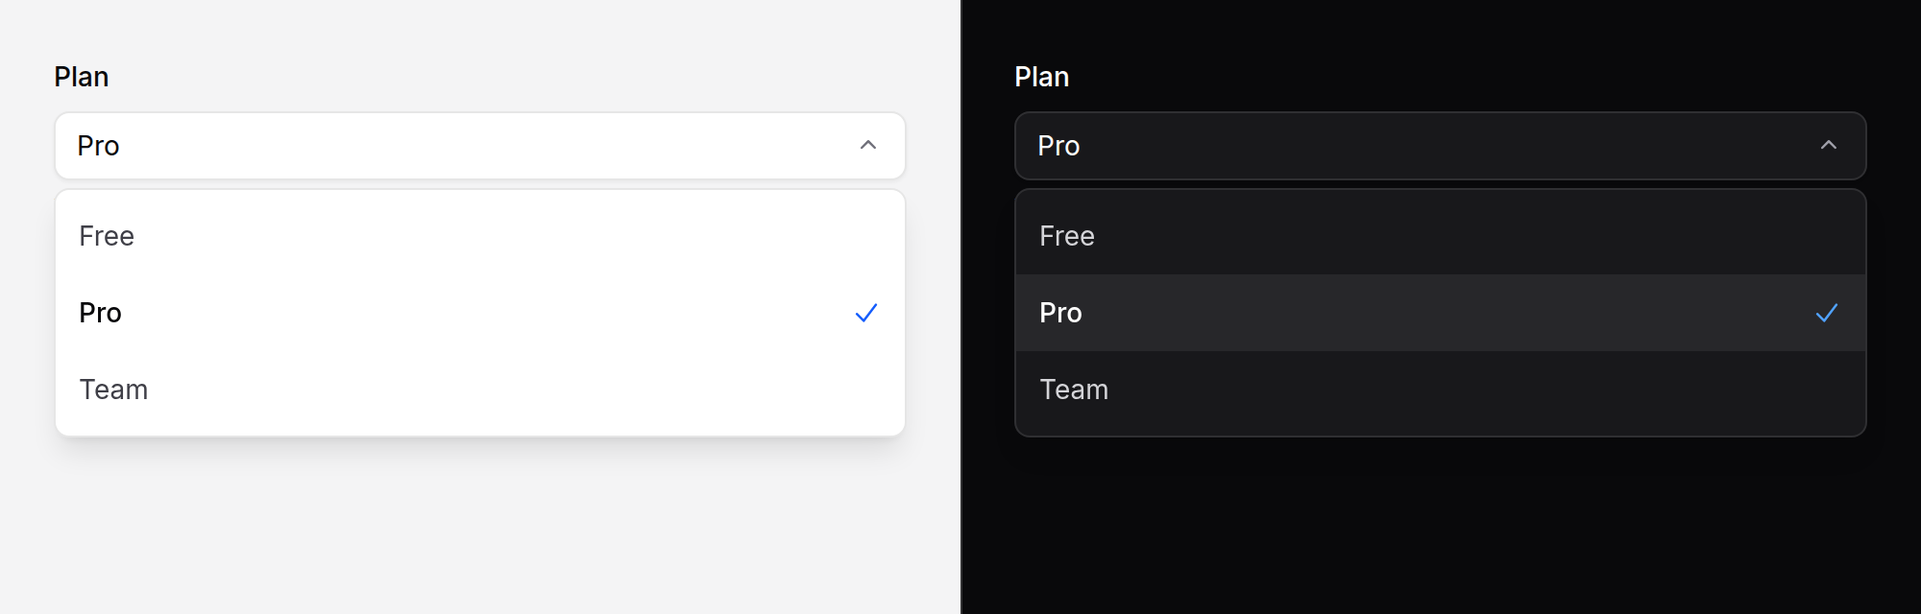
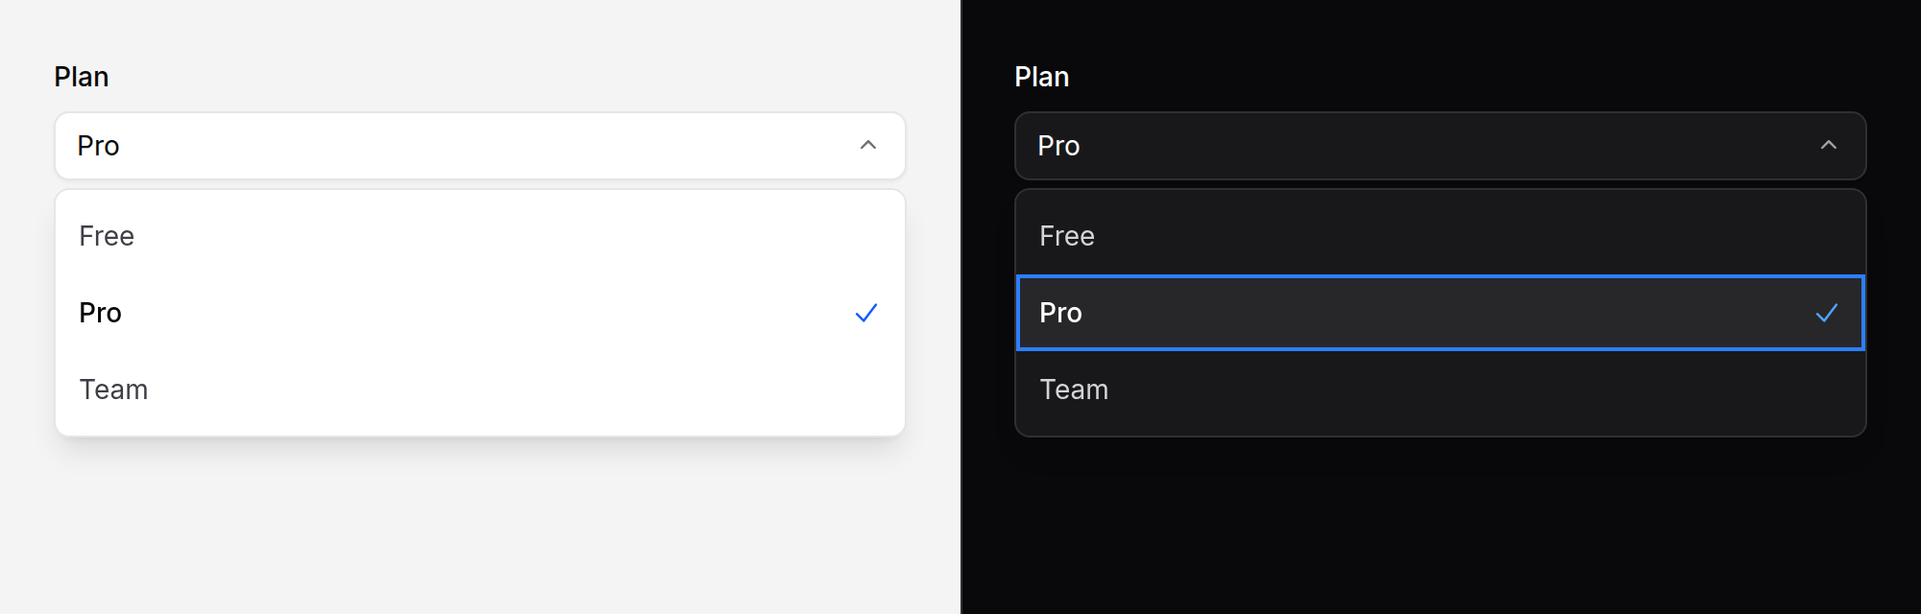
Focus: every focusable element draws the system ring, in both themes
Menu items and select and combobox options hid the outline and showed
only a fill about 1.04:1 against the menu in light; they now draw the
ring inside themselves. Nav items, sub-nav, panel rows and actions, stat
tiles, sheet items and bottom-nav items relied on the browser's own ring;
the file upload's ring was on a transparent input. The field recipe drew
its ring only from sm up, so a phone-width field had none.

The behaviour suite tabs through one of each focusable component in both
themes at desktop and phone width, and through the inside of every
overlay, and fails on a stop that draws nothing or only the browser's
ring. The input fixture follows the ring class and nothing else.

Changed region(s): [[0.527, 0.5625, 0.961, 0.5938], [0.527, 0.4375, 0.961, 0.4688]]

diff --git a/tests/Fixtures/input-1x.html b/tests/Fixtures/input-1x.html
@@ -2,7 +2,7 @@
 <div >
             <label for="ds-ID" class="block text-body font-medium text-fg">Name</label>
     
-    <span class="relative block w-full before:absolute before:inset-px before:rounded-[calc(var(--ds-radius-control)-1px)] before:bg-surface before:shadow-raised after:pointer-events-none after:absolute after:inset-0 after:rounded-control after:ring-transparent after:ring-inset sm:focus-within:after:ring-2 sm:focus-within:after:ring-focus-ring  mt-1.5">
+    <span class="relative block w-full before:absolute before:inset-px before:rounded-[calc(var(--ds-radius-control)-1px)] before:bg-surface before:shadow-raised after:pointer-events-none after:absolute after:inset-0 after:rounded-control after:ring-transparent after:ring-inset focus-within:after:ring-2 focus-within:after:ring-focus-ring  mt-1.5">
         
                     <input type="text" id="ds-ID" class="relative block w-full appearance-none rounded-control bg-transparent px-[calc(--spacing(3.5)-1px)] py-[calc(--spacing(2.5)-1px)] sm:px-[calc(--spacing(3)-1px)] sm:py-[calc(--spacing(1.5)-1px)] text-body-touch text-fg placeholder:text-fg-muted sm:text-body border focus:outline-hidden border-border hover:border-fg/20" aria-describedby="ds-ID-help" name="name"  />
             </span>
@@ -13,7 +13,7 @@
 <div >
             <label for="ds-ID" class="block text-body font-medium text-fg">Email</label>
     
-    <span class="relative block w-full before:absolute before:inset-px before:rounded-[calc(var(--ds-radius-control)-1px)] before:bg-surface before:shadow-raised after:pointer-events-none after:absolute after:inset-0 after:rounded-control after:ring-transparent after:ring-inset sm:focus-within:after:ring-2 sm:focus-within:after:ring-focus-ring  mt-1.5">
+    <span class="relative block w-full before:absolute before:inset-px before:rounded-[calc(var(--ds-radius-control)-1px)] before:bg-surface before:shadow-raised after:pointer-events-none after:absolute after:inset-0 after:rounded-control after:ring-transparent after:ring-inset focus-within:after:ring-2 focus-within:after:ring-focus-ring  mt-1.5">
         
                     <input type="text" id="ds-ID" class="relative block w-full appearance-none rounded-control bg-transparent px-[calc(--spacing(3.5)-1px)] py-[calc(--spacing(2.5)-1px)] sm:px-[calc(--spacing(3)-1px)] sm:py-[calc(--spacing(1.5)-1px)] text-body-touch text-fg placeholder:text-fg-muted sm:text-body border focus:outline-hidden border-danger hover:border-danger" aria-describedby="ds-ID-error" aria-invalid="true" name="email"  />
             </span>
@@ -27,7 +27,7 @@
 <div >
             <label for="ds-ID" class="block text-body font-medium text-fg">Search</label>
     
-    <span class="relative block w-full before:absolute before:inset-px before:rounded-[calc(var(--ds-radius-control)-1px)] before:bg-surface before:shadow-raised after:pointer-events-none after:absolute after:inset-0 after:rounded-control after:ring-transparent after:ring-inset sm:focus-within:after:ring-2 sm:focus-within:after:ring-focus-ring  mt-1.5">
+    <span class="relative block w-full before:absolute before:inset-px before:rounded-[calc(var(--ds-radius-control)-1px)] before:bg-surface before:shadow-raised after:pointer-events-none after:absolute after:inset-0 after:rounded-control after:ring-transparent after:ring-inset focus-within:after:ring-2 focus-within:after:ring-focus-ring  mt-1.5">
                     <span class="pointer-events-none absolute inset-y-0 left-3 z-10 flex items-center text-fg-muted">
                 <svg aria-hidden="true" class="size-4 shrink-0" xmlns="http://www.w3.org/2000/svg" fill="none" viewBox="0 0 24 24" stroke-width="1.5" stroke="currentColor" aria-hidden="true" data-slot="icon">
   <path stroke-linecap="round" stroke-linejoin="round" d="m21 21-5.197-5.197m0 0A7.5 7.5 0 1 0 5.196 5.196a7.5 7.5 0 0 0 10.607 10.607Z"/>
@@ -40,7 +40,7 @@
 <div >
             <label for="ds-ID" class="block text-body font-medium text-fg">Locked</label>
     
-    <span class="relative block w-full before:absolute before:inset-px before:rounded-[calc(var(--ds-radius-control)-1px)] before:bg-surface before:shadow-raised after:pointer-events-none after:absolute after:inset-0 after:rounded-control after:ring-transparent after:ring-inset sm:focus-within:after:ring-2 sm:focus-within:after:ring-focus-ring before:bg-surface-subtle before:shadow-none mt-1.5">
+    <span class="relative block w-full before:absolute before:inset-px before:rounded-[calc(var(--ds-radius-control)-1px)] before:bg-surface before:shadow-raised after:pointer-events-none after:absolute after:inset-0 after:rounded-control after:ring-transparent after:ring-inset focus-within:after:ring-2 focus-within:after:ring-focus-ring before:bg-surface-subtle before:shadow-none mt-1.5">
         
                     <input type="text" id="ds-ID" class="relative block w-full appearance-none rounded-control bg-transparent px-[calc(--spacing(3.5)-1px)] py-[calc(--spacing(2.5)-1px)] sm:px-[calc(--spacing(3)-1px)] sm:py-[calc(--spacing(1.5)-1px)] text-body-touch text-fg placeholder:text-fg-muted sm:text-body border focus:outline-hidden border-border hover:border-fg/20 text-fg-subtle" name="locked" disabled />
             </span>
@@ -49,7 +49,7 @@
 <div >
             <label for="ds-ID" class="block text-body font-medium text-fg">Email</label>
     
-    <span class="relative block w-full before:absolute before:inset-px before:rounded-[calc(var(--ds-radius-control)-1px)] before:bg-surface before:shadow-raised after:pointer-events-none after:absolute after:inset-0 after:rounded-control after:ring-transparent after:ring-inset sm:focus-within:after:ring-2 sm:focus-within:after:ring-focus-ring before:bg-surface-subtle before:shadow-none mt-1.5">
+    <span class="relative block w-full before:absolute before:inset-px before:rounded-[calc(var(--ds-radius-control)-1px)] before:bg-surface before:shadow-raised after:pointer-events-none after:absolute after:inset-0 after:rounded-control after:ring-transparent after:ring-inset focus-within:after:ring-2 focus-within:after:ring-focus-ring before:bg-surface-subtle before:shadow-none mt-1.5">
         
                     <input type="text" id="ds-ID" class="relative block w-full appearance-none rounded-control bg-transparent px-[calc(--spacing(3.5)-1px)] py-[calc(--spacing(2.5)-1px)] sm:px-[calc(--spacing(3)-1px)] sm:py-[calc(--spacing(1.5)-1px)] text-body-touch text-fg placeholder:text-fg-muted sm:text-body border focus:outline-hidden border-border text-fg-muted" name="email" value="ada@example.com" readonly="readonly"  />
             </span>
@@ -58,7 +58,7 @@
 <div >
             <label for="ds-ID" class="block text-body font-medium text-fg">Reference</label>
     
-    <span class="relative block w-full before:absolute before:inset-px before:rounded-[calc(var(--ds-radius-control)-1px)] before:bg-surface before:shadow-raised after:pointer-events-none after:absolute after:inset-0 after:rounded-control after:ring-transparent after:ring-inset sm:focus-within:after:ring-2 sm:focus-within:after:ring-focus-ring before:bg-surface-subtle before:shadow-none mt-1.5">
+    <span class="relative block w-full before:absolute before:inset-px before:rounded-[calc(var(--ds-radius-control)-1px)] before:bg-surface before:shadow-raised after:pointer-events-none after:absolute after:inset-0 after:rounded-control after:ring-transparent after:ring-inset focus-within:after:ring-2 focus-within:after:ring-focus-ring before:bg-surface-subtle before:shadow-none mt-1.5">
         
                     <textarea id="ds-ID" class="relative block w-full appearance-none rounded-control bg-transparent px-[calc(--spacing(3.5)-1px)] py-[calc(--spacing(2.5)-1px)] sm:px-[calc(--spacing(3)-1px)] sm:py-[calc(--spacing(1.5)-1px)] text-body-touch text-fg placeholder:text-fg-muted sm:text-body border focus:outline-hidden border-border text-fg-muted" name="ref" readonly="readonly" rows="3" >REF-0042</textarea>
             </span>
@@ -67,7 +67,7 @@
 <div >
             <label for="ds-ID" class="block text-body font-medium text-fg">Readonly, invalid</label>
     
-    <span class="relative block w-full before:absolute before:inset-px before:rounded-[calc(var(--ds-radius-control)-1px)] before:bg-surface before:shadow-raised after:pointer-events-none after:absolute after:inset-0 after:rounded-control after:ring-transparent after:ring-inset sm:focus-within:after:ring-2 sm:focus-within:after:ring-focus-ring before:bg-surface-subtle before:shadow-none mt-1.5">
+    <span class="relative block w-full before:absolute before:inset-px before:rounded-[calc(var(--ds-radius-control)-1px)] before:bg-surface before:shadow-raised after:pointer-events-none after:absolute after:inset-0 after:rounded-control after:ring-transparent after:ring-inset focus-within:after:ring-2 focus-within:after:ring-focus-ring before:bg-surface-subtle before:shadow-none mt-1.5">
         
                     <input type="text" id="ds-ID" class="relative block w-full appearance-none rounded-control bg-transparent px-[calc(--spacing(3.5)-1px)] py-[calc(--spacing(2.5)-1px)] sm:px-[calc(--spacing(3)-1px)] sm:py-[calc(--spacing(1.5)-1px)] text-body-touch text-fg placeholder:text-fg-muted sm:text-body border focus:outline-hidden border-danger hover:border-danger text-fg-muted" aria-describedby="ds-ID-error" aria-invalid="true" name="ro" readonly="readonly"  />
             </span>
@@ -81,7 +81,7 @@
 <div >
             <label for="ds-ID" class="block text-body font-medium text-fg">Notes</label>
     
-    <span class="relative block w-full before:absolute before:inset-px before:rounded-[calc(var(--ds-radius-control)-1px)] before:bg-surface before:shadow-raised after:pointer-events-none after:absolute after:inset-0 after:rounded-control after:ring-transparent after:ring-inset sm:focus-within:after:ring-2 sm:focus-within:after:ring-focus-ring  mt-1.5">
+    <span class="relative block w-full before:absolute before:inset-px before:rounded-[calc(var(--ds-radius-control)-1px)] before:bg-surface before:shadow-raised after:pointer-events-none after:absolute after:inset-0 after:rounded-control after:ring-transparent after:ring-inset focus-within:after:ring-2 focus-within:after:ring-focus-ring  mt-1.5">
         
                     <textarea id="ds-ID" class="relative block w-full appearance-none rounded-control bg-transparent px-[calc(--spacing(3.5)-1px)] py-[calc(--spacing(2.5)-1px)] sm:px-[calc(--spacing(3)-1px)] sm:py-[calc(--spacing(1.5)-1px)] text-body-touch text-fg placeholder:text-fg-muted sm:text-body border focus:outline-hidden border-border hover:border-fg/20" name="notes" rows="4" ></textarea>
             </span>
@@ -90,7 +90,7 @@
 <div >
             <label for="ds-ID" class="block text-body font-medium text-fg">Plan</label>
     
-    <span class="relative block w-full before:absolute before:inset-px before:rounded-[calc(var(--ds-radius-control)-1px)] before:bg-surface before:shadow-raised after:pointer-events-none after:absolute after:inset-0 after:rounded-control after:ring-transparent after:ring-inset sm:focus-within:after:ring-2 sm:focus-within:after:ring-focus-ring  mt-1.5">
+    <span class="relative block w-full before:absolute before:inset-px before:rounded-[calc(var(--ds-radius-control)-1px)] before:bg-surface before:shadow-raised after:pointer-events-none after:absolute after:inset-0 after:rounded-control after:ring-transparent after:ring-inset focus-within:after:ring-2 focus-within:after:ring-focus-ring  mt-1.5">
         
                     <select id="ds-ID" class="relative block w-full appearance-none rounded-control bg-transparent px-[calc(--spacing(3.5)-1px)] py-[calc(--spacing(2.5)-1px)] sm:px-[calc(--spacing(3)-1px)] sm:py-[calc(--spacing(1.5)-1px)] text-body-touch text-fg placeholder:text-fg-muted sm:text-body border focus:outline-hidden border-border hover:border-fg/20   pr-9 sm:pr-8" name="plan" ><option>Free</option></select>
             
@@ -107,7 +107,7 @@
 <div >
             <label for="ds-ID" class="block text-body font-medium text-fg">Password</label>
     
-    <span class="relative block w-full before:absolute before:inset-px before:rounded-[calc(var(--ds-radius-control)-1px)] before:bg-surface before:shadow-raised after:pointer-events-none after:absolute after:inset-0 after:rounded-control after:ring-transparent after:ring-inset sm:focus-within:after:ring-2 sm:focus-within:after:ring-focus-ring  mt-1.5">
+    <span class="relative block w-full before:absolute before:inset-px before:rounded-[calc(var(--ds-radius-control)-1px)] before:bg-surface before:shadow-raised after:pointer-events-none after:absolute after:inset-0 after:rounded-control after:ring-transparent after:ring-inset focus-within:after:ring-2 focus-within:after:ring-focus-ring  mt-1.5">
         
                     <input type="password" id="ds-ID" class="relative block w-full appearance-none rounded-control bg-transparent px-[calc(--spacing(3.5)-1px)] py-[calc(--spacing(2.5)-1px)] sm:px-[calc(--spacing(3)-1px)] sm:py-[calc(--spacing(1.5)-1px)] text-body-touch text-fg placeholder:text-fg-muted sm:text-body border focus:outline-hidden border-border hover:border-fg/20" aria-describedby="ds-ID-help" name="password"  />
             </span>
@@ -120,7 +120,7 @@
 <div >
             <label for="ds-ID" class="block text-body font-medium text-fg">Password</label>
     
-    <span class="relative block w-full before:absolute before:inset-px before:rounded-[calc(var(--ds-radius-control)-1px)] before:bg-surface before:shadow-raised after:pointer-events-none after:absolute after:inset-0 after:rounded-control after:ring-transparent after:ring-inset sm:focus-within:after:ring-2 sm:focus-within:after:ring-focus-ring  mt-1.5">
+    <span class="relative block w-full before:absolute before:inset-px before:rounded-[calc(var(--ds-radius-control)-1px)] before:bg-surface before:shadow-raised after:pointer-events-none after:absolute after:inset-0 after:rounded-control after:ring-transparent after:ring-inset focus-within:after:ring-2 focus-within:after:ring-focus-ring  mt-1.5">
         
                     <input type="password" id="ds-ID" class="relative block w-full appearance-none rounded-control bg-transparent px-[calc(--spacing(3.5)-1px)] py-[calc(--spacing(2.5)-1px)] sm:px-[calc(--spacing(3)-1px)] sm:py-[calc(--spacing(1.5)-1px)] text-body-touch text-fg placeholder:text-fg-muted sm:text-body border focus:outline-hidden border-danger hover:border-danger" aria-describedby="ds-ID-error" aria-invalid="true" name="password" autocomplete="new-password"  />
             </span>
@@ -136,7 +136,7 @@
 <div >
             <label for="ds-ID" class="block text-body font-medium text-fg">Password</label>
     
-    <span class="relative block w-full before:absolute before:inset-px before:rounded-[calc(var(--ds-radius-control)-1px)] before:bg-surface before:shadow-raised after:pointer-events-none after:absolute after:inset-0 after:rounded-control after:ring-transparent after:ring-inset sm:focus-within:after:ring-2 sm:focus-within:after:ring-focus-ring before:bg-surface-subtle before:shadow-none mt-1.5">
+    <span class="relative block w-full before:absolute before:inset-px before:rounded-[calc(var(--ds-radius-control)-1px)] before:bg-surface before:shadow-raised after:pointer-events-none after:absolute after:inset-0 after:rounded-control after:ring-transparent after:ring-inset focus-within:after:ring-2 focus-within:after:ring-focus-ring before:bg-surface-subtle before:shadow-none mt-1.5">
         
                     <input type="password" id="ds-ID" class="relative block w-full appearance-none rounded-control bg-transparent px-[calc(--spacing(3.5)-1px)] py-[calc(--spacing(2.5)-1px)] sm:px-[calc(--spacing(3)-1px)] sm:py-[calc(--spacing(1.5)-1px)] text-body-touch text-fg placeholder:text-fg-muted sm:text-body border focus:outline-hidden border-border hover:border-fg/20 text-fg-subtle" name="password" disabled />
             </span>
@@ -147,7 +147,7 @@
 <div >
             <label for="ds-ID" class="block text-body font-medium text-fg">Search</label>
     
-    <span class="relative block w-full before:absolute before:inset-px before:rounded-[calc(var(--ds-radius-control)-1px)] before:bg-surface before:shadow-raised after:pointer-events-none after:absolute after:inset-0 after:rounded-control after:ring-transparent after:ring-inset sm:focus-within:after:ring-2 sm:focus-within:after:ring-focus-ring  mt-1.5">
+    <span class="relative block w-full before:absolute before:inset-px before:rounded-[calc(var(--ds-radius-control)-1px)] before:bg-surface before:shadow-raised after:pointer-events-none after:absolute after:inset-0 after:rounded-control after:ring-transparent after:ring-inset focus-within:after:ring-2 focus-within:after:ring-focus-ring  mt-1.5">
                     <span class="pointer-events-none absolute inset-y-0 left-3 z-10 flex items-center text-fg-muted">
                 <svg aria-hidden="true" class="size-4 shrink-0" xmlns="http://www.w3.org/2000/svg" fill="none" viewBox="0 0 24 24" stroke-width="1.5" stroke="currentColor" aria-hidden="true" data-slot="icon">
   <path stroke-linecap="round" stroke-linejoin="round" d="m21 21-5.197-5.197m0 0A7.5 7.5 0 1 0 5.196 5.196a7.5 7.5 0 0 0 10.607 10.607Z"/>
@@ -162,7 +162,7 @@
 <div class="mt-4">
             <label for="email" class="block text-body font-medium text-fg">Email</label>
     
-    <span class="relative block w-full before:absolute before:inset-px before:rounded-[calc(var(--ds-radius-control)-1px)] before:bg-surface before:shadow-raised after:pointer-events-none after:absolute after:inset-0 after:rounded-control after:ring-transparent after:ring-inset sm:focus-within:after:ring-2 sm:focus-within:after:ring-focus-ring  mt-1.5">
+    <span class="relative block w-full before:absolute before:inset-px before:rounded-[calc(var(--ds-radius-control)-1px)] before:bg-surface before:shadow-raised after:pointer-events-none after:absolute after:inset-0 after:rounded-control after:ring-transparent after:ring-inset focus-within:after:ring-2 focus-within:after:ring-focus-ring  mt-1.5">
         
                     <input type="email" id="email" class="relative block w-full appearance-none rounded-control bg-transparent px-[calc(--spacing(3.5)-1px)] py-[calc(--spacing(2.5)-1px)] sm:px-[calc(--spacing(3)-1px)] sm:py-[calc(--spacing(1.5)-1px)] text-body-touch text-fg placeholder:text-fg-muted sm:text-body border focus:outline-hidden border-border hover:border-fg/20" name="email" value="ada@example.com"  />
             </span>

diff --git a/scripts/focus-specimens.blade.php b/scripts/focus-specimens.blade.php
@@ -1,0 +1,65 @@
+{{--
+    Specimen source for the FOCUS check in scripts/test-behaviour.mjs.
+
+    One of each focusable component, in one column, each in a section named
+    for the component. The check presses Tab from the top to the end button and
+    needs every stop to draw a ring, so an element that relies on the browser's
+    own ring, or hides it, fails here. A component with something focusable
+    gets a section; the coverage check fails on a section no Tab reached.
+
+    Overlays are opened by the check from their triggers, with the keyboard.
+--}}
+<div class="space-y-6 p-8" x-data="{ show: true, modalOpen: false, drawerOpen: false }">
+<section data-focus="button"><x-ds::button>Save</x-ds::button> <x-ds::button variant="primary">Go</x-ds::button> <x-ds::button variant="ghost" iconOnly aria-label="Settings"><x-ds::icon name="cog" /></x-ds::button> <x-ds::button href="/x">Link</x-ds::button></section>
+<section data-focus="pagination">
+@php $paginator = new \Illuminate\Pagination\LengthAwarePaginator(range(1, 15), 237, 15, 4, ['path' => '/reports']); $simple = new \Illuminate\Pagination\Paginator(range(1, 16), 15, 2, ['path' => '/reports']); @endphp
+{{ $paginator->links('ds::pagination') }}
+{{ $simple->links('ds::simple-pagination') }}
+</section>
+<section data-focus="alert"><x-ds::alert tone="warning" :dismissible="true">Dismissible.</x-ds::alert></section>
+<section data-focus="input" class="max-w-sm"><x-ds::input label="Name" name="name" /><x-ds::input type="password" name="password" label="Password" :reveal="true" /><x-ds::input as="textarea" label="Notes" name="notes" /><x-ds::input as="select" label="Plan" name="plan"><option>Free</option></x-ds::input></section>
+<section data-focus="otp-input"><x-ds::otp-input name="code" label="Code" :length="4" /></section>
+<section data-focus="tag-input" class="max-w-sm"><x-ds::tag-input name="tags" label="Tags" :value="['billing']" /></section>
+<section data-focus="copy-button"><x-ds::copy-button value="x" /></section>
+<section data-focus="rating"><x-ds::rating name="score" label="Score" :value="3" /></section>
+<section data-focus="chip"><x-ds::chip-group name="status" label="Status"><x-ds::chip value="open" :checked="true">Open</x-ds::chip><x-ds::chip value="closed">Closed</x-ds::chip></x-ds::chip-group><x-ds::chip-group label="Show"><x-ds::chip href="/t" :active="true">All</x-ds::chip></x-ds::chip-group></section>
+<section data-focus="radio-card"><x-ds::radio-cards name="plan2" label="Plan" :columns="2"><x-ds::radio-card value="free" title="Free" :checked="true" /><x-ds::radio-card value="pro" title="Pro" /></x-ds::radio-cards></section>
+<section data-focus="segment"><x-ds::segmented-control name="view" label="View"><x-ds::segment value="list" :checked="true">List</x-ds::segment><x-ds::segment value="board">Board</x-ds::segment></x-ds::segmented-control><x-ds::segmented-control label="Show"><x-ds::segment href="/t" :active="true">All</x-ds::segment></x-ds::segmented-control></section>
+<section data-focus="button-group"><x-ds::button-group label="Alignment"><x-ds::button>Left</x-ds::button><x-ds::button>Right</x-ds::button></x-ds::button-group></section>
+<section data-focus="toolbar-button"><x-ds::toolbar label="Formatting"><x-ds::toolbar-button icon="star" label="Star" /><x-ds::toolbar-button label="Share" href="/share" /></x-ds::toolbar></section>
+<section data-focus="toggle"><x-ds::toggle-group label="Alignment" name="align"><x-ds::toggle value="left" label="Left" :pressed="true" /><x-ds::toggle value="center" label="Center" /></x-ds::toggle-group></section>
+<section data-focus="number-field" class="max-w-sm"><x-ds::number-field name="seats" label="Seats" :value="3" :min="1" :max="10" /></section>
+<section data-focus="panel"><x-ds::panel title="Recent" action="View all" actionHref="/all"><x-ds::panel-row href="/r">A row</x-ds::panel-row></x-ds::panel></section>
+<section data-focus="stat-tile"><x-ds::stat-tile href="/revenue" label="Revenue" value="12400" /></section>
+<section data-focus="table"><x-ds::table sort="total" direction="desc" sortUrl="/r?sort={key}&direction={direction}" :columns="[['label' => 'Report', 'key' => 'name', 'sortable' => true]]"><x-ds::table-row><x-ds::table-cell>Q3</x-ds::table-cell></x-ds::table-row></x-ds::table></section>
+<section data-focus="nav-item" class="w-64"><x-ds::nav-item href="/" label="Dashboard" :active="true"><x-slot:icon><x-ds::icon name="home" /></x-slot:icon></x-ds::nav-item><x-ds::nav-item href="/r" label="Reports" /></section>
+<section data-focus="sub-nav" class="w-64"><x-ds::sub-nav label="Settings" :open="true"><x-ds::nav-item href="/s/p" label="Profile" /></x-ds::sub-nav></section>
+<section data-focus="sheet-item" class="w-80"><x-ds::sheet-item href="/a" label="Projects" description="All of them" /><x-ds::sheet-item label="Sign out" tone="danger" as="button" /></section>
+<section data-focus="bottom-nav-item" class="flex"><x-ds::bottom-nav-item href="/" label="Home" :active="true"><x-slot:icon><x-ds::icon name="home" size="6" /></x-slot:icon></x-ds::bottom-nav-item><x-ds::bottom-nav-item label="More"><x-slot:icon><x-ds::icon name="menu" size="6" /></x-slot:icon></x-ds::bottom-nav-item></section>
+<section data-focus="avatar-group">@php $people = [['name' => 'Ada Lovelace'], ['name' => 'Grace Hopper'], ['name' => 'Alan Turing']]; @endphp<x-ds::avatar-group :avatars="$people" :max="2" :total="12" href="/team" /></section>
+<section data-focus="step"><x-ds::stepper label="Checkout"><x-ds::step status="complete" title="Account" href="/a" /><x-ds::step status="current" title="Plan" /></x-ds::stepper></section>
+<section data-focus="breadcrumb-item"><x-ds::breadcrumb><x-ds::breadcrumb-item href="/">Home</x-ds::breadcrumb-item><x-ds::breadcrumb-item :current="true">Q3</x-ds::breadcrumb-item></x-ds::breadcrumb></section>
+<section data-focus="checkbox"><x-ds::checkbox name="terms" label="I agree" /></section>
+<section data-focus="radio"><x-ds::radio-group label="Period"><x-ds::radio name="period" value="m" label="Monthly" :checked="true" /><x-ds::radio name="period" value="y" label="Yearly" /></x-ds::radio-group></section>
+<section data-focus="tab"><x-ds::tabs label="Sections"><x-ds::tab controls="fp1" :active="true">Overview</x-ds::tab><x-ds::tab controls="fp2">Open</x-ds::tab></x-ds::tabs><x-ds::tab-panel id="fp1" :active="true">Overview content</x-ds::tab-panel><x-ds::tab-panel id="fp2">Open content</x-ds::tab-panel><x-ds::tabs label="Account" :navigation="true"><x-ds::tab href="/p" :active="true">Profile</x-ds::tab></x-ds::tabs></section>
+<section data-focus="tooltip"><x-ds::tooltip text="Delete"><x-ds::button size="sm" iconOnly aria-label="Delete"><x-ds::icon name="trash" size="4" /></x-ds::button></x-ds::tooltip></section>
+<section data-focus="toast"><x-ds::toast tone="success" title="Exported" dismiss="show = false">Done.</x-ds::toast></section>
+<section data-focus="select" class="max-w-sm"><x-ds::select name="fplan" id="f-select" label="Plan" :options="['free' => 'Free', 'pro' => 'Pro', 'team' => 'Team']" value="pro" /></section>
+<section data-focus="switch"><x-ds::switch name="notify" label="Email" /></section>
+<section data-focus="accordion-item"><x-ds::accordion open="billing"><x-ds::accordion-item title="Billing" name="billing">Card.</x-ds::accordion-item><x-ds::accordion-item title="Security" name="security">2FA.</x-ds::accordion-item></x-ds::accordion></section>
+<section data-focus="combobox" class="max-w-sm"><x-ds::combobox name="ftags" id="f-combobox" label="Tags" :options="['a' => 'Accessibility', 'b' => 'Billing', 'c' => 'Compliance']" :value="['a']" :multiple="true" /></section>
+<section data-focus="file-upload" class="max-w-sm"><x-ds::file-upload name="avatar" label="Photo" /></section>
+<section data-focus="date-picker" class="max-w-sm"><x-ds::date-picker name="fdue" id="f-date" label="Due" value="2026-09-30" /></section>
+<section data-focus="dropdown"><x-ds::dropdown placement="bottom-start"><x-slot:trigger><x-ds::button id="f-dd" size="sm">Actions</x-ds::button></x-slot:trigger><x-ds::dropdown-item href="/edit">Edit</x-ds::dropdown-item><x-ds::dropdown-item tone="danger" as="button">Delete</x-ds::dropdown-item></x-ds::dropdown></section>
+<section data-focus="popover"><x-ds::popover label="Filters"><x-slot:trigger><x-ds::button id="f-pop" size="sm">Filters</x-ds::button></x-slot:trigger><x-ds::checkbox name="failed" label="Only failed" /></x-ds::popover></section>
+<section data-focus="hover-card">
+<x-ds::hover-card>
+    <x-slot:trigger><x-ds::button id="f-hc" size="sm" variant="ghost">Ada</x-ds::button></x-slot:trigger>
+    Analyst
+</x-ds::hover-card>
+</section>
+<section data-focus="modal"><x-ds::button id="f-modal-open" @click="modalOpen = true">Open modal</x-ds::button><x-ds::modal open="modalOpen" title="Confirm" size="sm">Body<x-slot:footer><x-ds::button size="sm" @click="modalOpen = false">OK</x-ds::button></x-slot:footer></x-ds::modal></section>
+<section data-focus="drawer"><x-ds::button id="f-drawer-open" @click="drawerOpen = true">Open drawer</x-ds::button><x-ds::drawer open="drawerOpen" title="Filters">Body<x-slot:footer><x-ds::button size="sm" @click="drawerOpen = false">Apply</x-ds::button></x-slot:footer></x-ds::drawer></section>
+{{-- The walk stops here. A plain button, so it is not checked. --}}
+<p><button id="f-end" type="button">end</button></p>
+</div>

diff --git a/resources/views/components/select.blade.php b/resources/views/components/select.blade.php
@@ -203,7 +203,7 @@
                 @click="value = {{ $optionValueJs }}; label = {{ $optionLabelJs }}; open = false"
                 @keydown.enter.prevent="$el.click()"
                 @keydown.space.prevent="$el.click()"
-                class="flex cursor-pointer items-center justify-between gap-2 px-3 py-2 text-body text-fg-body motion-safe:transition-colors motion-safe:duration-popover-enter motion-safe:ease-enter hover:bg-surface-subtle hover:text-fg focus-visible:bg-surface-subtle focus-visible:text-fg focus-visible:outline-hidden aria-selected:font-medium aria-selected:text-fg"
+                class="flex cursor-pointer items-center justify-between gap-2 px-3 py-2 text-body text-fg-body motion-safe:transition-colors motion-safe:duration-popover-enter motion-safe:ease-enter hover:bg-surface-subtle hover:text-fg focus-visible:bg-surface-subtle focus-visible:text-fg focus-visible:outline-2 focus-visible:-outline-offset-2 focus-visible:outline-focus-ring aria-selected:font-medium aria-selected:text-fg"
             >
                 <span class="truncate">{{ $option['label'] }}</span>
 

diff --git a/resources/views/components/combobox.blade.php b/resources/views/components/combobox.blade.php
@@ -207,7 +207,7 @@
                 "
                 @keydown.enter.prevent="$el.click()"
                 @keydown.space.prevent="$el.click()"
-                class="flex cursor-pointer items-center justify-between gap-2 px-3 py-2 text-body text-fg-body motion-safe:transition-colors motion-safe:duration-popover-enter motion-safe:ease-enter hover:bg-surface-subtle hover:text-fg focus-visible:bg-surface-subtle focus-visible:text-fg focus-visible:outline-hidden aria-selected:font-medium aria-selected:text-fg"
+                class="flex cursor-pointer items-center justify-between gap-2 px-3 py-2 text-body text-fg-body motion-safe:transition-colors motion-safe:duration-popover-enter motion-safe:ease-enter hover:bg-surface-subtle hover:text-fg focus-visible:bg-surface-subtle focus-visible:text-fg focus-visible:outline-2 focus-visible:-outline-offset-2 focus-visible:outline-focus-ring aria-selected:font-medium aria-selected:text-fg"
             >
                 <span class="truncate" x-text="option.label"></span>
                 <x-ds::icon

diff --git a/resources/views/partials/field.php b/resources/views/partials/field.php
@@ -19,7 +19,10 @@
  *
  * Every string below is exactly what ds::input emitted in 1.x, in the same
  * order, empty segments included: InputUnchangedTest holds its output byte for
- * byte to a fixture written before this file existed.
+ * byte to a fixture written before this file existed. One change since: the
+ * focus ring was `sm:` only, which left a field below 640px with no focus
+ * indicator but the caret, and an external keyboard on a phone or a narrow
+ * window shows none. It is on at every width now.
  */
 
 $padding = static fn (string $size): string => match ($size) {
@@ -71,7 +74,7 @@ return [
         'before:bg-surface before:shadow-raised',
         'after:pointer-events-none after:absolute after:inset-0 after:rounded-control',
         'after:ring-transparent after:ring-inset',
-        'sm:focus-within:after:ring-2 sm:focus-within:after:ring-focus-ring',
+        'focus-within:after:ring-2 focus-within:after:ring-focus-ring',
         $flat ? 'before:bg-surface-subtle before:shadow-none' : '',
     ]),
 

diff --git a/resources/views/components/dropdown-item.blade.php b/resources/views/components/dropdown-item.blade.php
@@ -32,10 +32,11 @@
 
     $classes = implode(' ', [
         'flex w-full items-center gap-2.5 px-3 py-2 text-left text-body',
-        // No focus RING here — a ring inside a 4px-padded menu clips against
-        // the rounded edge. The hover fill doubles as the focus fill instead,
-        // which is why it is on focus-visible as well and not hover alone.
-        'focus-visible:outline-hidden',
+        // The ring is drawn INSIDE the item: an outer one would be clipped by
+        // the menu's overflow and its rounded edge. The fill alone is not
+        // enough to find the focus by: surface-subtle on surface is about
+        // 1.04:1 in the light theme.
+        'focus-visible:outline-2 focus-visible:-outline-offset-2 focus-visible:outline-focus-ring',
         $disabled
             ? 'cursor-not-allowed text-fg-subtle'
             : $tones[$tone].' '.($tone === 'danger' ? 'focus-visible:bg-danger-wash focus-visible:text-on-danger-tint' : 'focus-visible:bg-surface-subtle'),

diff --git a/resources/views/components/nav-item.blade.php b/resources/views/components/nav-item.blade.php
@@ -29,7 +29,10 @@
 
     // 14/20 rather than the body 14/24: a nav rail is a list of short labels and
     // the looser leading makes every row four pixels taller for nothing.
-    $base = 'flex items-center rounded-control border text-left text-section font-medium motion-safe:transition-colors motion-safe:duration-popover-enter motion-safe:ease-enter';
+    //
+    // The focus ring is drawn inside the item because a rail scrolls, and a
+    // scrolling box clips an outer ring at its sides.
+    $base = 'flex items-center rounded-control border text-left text-section font-medium motion-safe:transition-colors motion-safe:duration-popover-enter motion-safe:ease-enter focus-visible:outline-2 focus-visible:-outline-offset-2 focus-visible:outline-focus-ring';
 
     $expandedClasses = 'w-full gap-3 px-2 py-2';
     $collapsedClasses = 'size-8 justify-center p-2';

diff --git a/resources/views/components/panel.blade.php b/resources/views/components/panel.blade.php
@@ -92,7 +92,7 @@
                 <a
                     @if ($actionHref) href="{{ $actionHref }}" @endif
                     {{ $attributes->only('wire:navigate') }}
-                    class="shrink-0 whitespace-nowrap text-meta font-medium text-fg-muted motion-safe:transition-colors motion-safe:duration-popover-enter motion-safe:ease-enter hover:text-fg"
+                    class="shrink-0 whitespace-nowrap text-meta font-medium text-fg-muted motion-safe:transition-colors motion-safe:duration-popover-enter motion-safe:ease-enter hover:text-fg rounded-chip focus-visible:outline-2 focus-visible:outline-offset-2 focus-visible:outline-focus-ring"
                 >{{ $action }}</a>
             @endif
         </div>

diff --git a/resources/views/components/sub-nav.blade.php b/resources/views/components/sub-nav.blade.php
@@ -51,7 +51,7 @@
     $state = $current ? 'text-fg' : 'text-fg-body hover:text-fg';
     $iconState = $current ? 'text-fg-body' : 'text-fg-subtle';
 
-    $base = 'flex items-center rounded-control border border-transparent text-left text-section font-medium motion-safe:transition-colors motion-safe:duration-popover-enter motion-safe:ease-enter hover:bg-fg/5 '.$state;
+    $base = 'flex items-center rounded-control border border-transparent text-left text-section font-medium motion-safe:transition-colors motion-safe:duration-popover-enter motion-safe:ease-enter hover:bg-fg/5 focus-visible:outline-2 focus-visible:-outline-offset-2 focus-visible:outline-focus-ring '.$state;
 @endphp
 
 {{--

diff --git a/resources/views/components/panel-row.blade.php b/resources/views/components/panel-row.blade.php
@@ -11,7 +11,7 @@
         // the sub-component most likely to be used somewhere else, and an
         // inherited text colour is only correct until it is not.
         'flex items-center gap-3 px-4 py-3 text-body text-fg-body',
-        $href ? 'motion-safe:transition-colors motion-safe:duration-popover-enter motion-safe:ease-enter hover:bg-surface-subtle' : '',
+        $href ? 'motion-safe:transition-colors motion-safe:duration-popover-enter motion-safe:ease-enter hover:bg-surface-subtle focus-visible:outline-2 focus-visible:-outline-offset-2 focus-visible:outline-focus-ring' : '',
     ]);
 
     $tag = $href ? 'a' : 'div';

diff --git a/resources/views/components/sheet-item.blade.php b/resources/views/components/sheet-item.blade.php
@@ -45,7 +45,7 @@
     @if ($tag === 'a') href="{{ $href }}" @endif
     @if ($tag === 'button') type="submit" @endif
     {{ $attributes->class([
-        'flex items-center gap-4 rounded-panel px-3 py-3.5',
+        'flex items-center gap-4 rounded-panel px-3 py-3.5 focus-visible:outline-2 focus-visible:-outline-offset-2 focus-visible:outline-focus-ring',
         'w-full text-left' => $tag === 'button',
         'motion-safe:transition-colors motion-safe:duration-popover-enter motion-safe:ease-enter hover:bg-surface-subtle' => ! $disabled,
         'opacity-60' => $disabled,

diff --git a/resources/views/components/stat-tile.blade.php b/resources/views/components/stat-tile.blade.php
@@ -56,7 +56,7 @@
 
     $classes = implode(' ', [
         'group block rounded-control border border-border-strong bg-surface p-4',
-        $href ? 'motion-safe:transition-all motion-safe:duration-popover-enter motion-safe:ease-enter hover:border-fg/20 hover:shadow-raised' : '',
+        $href ? 'motion-safe:transition-all motion-safe:duration-popover-enter motion-safe:ease-enter hover:border-fg/20 hover:shadow-raised focus-visible:outline-2 focus-visible:outline-offset-2 focus-visible:outline-focus-ring' : '',
     ]);
 
     $tag = $href ? 'a' : 'div';
